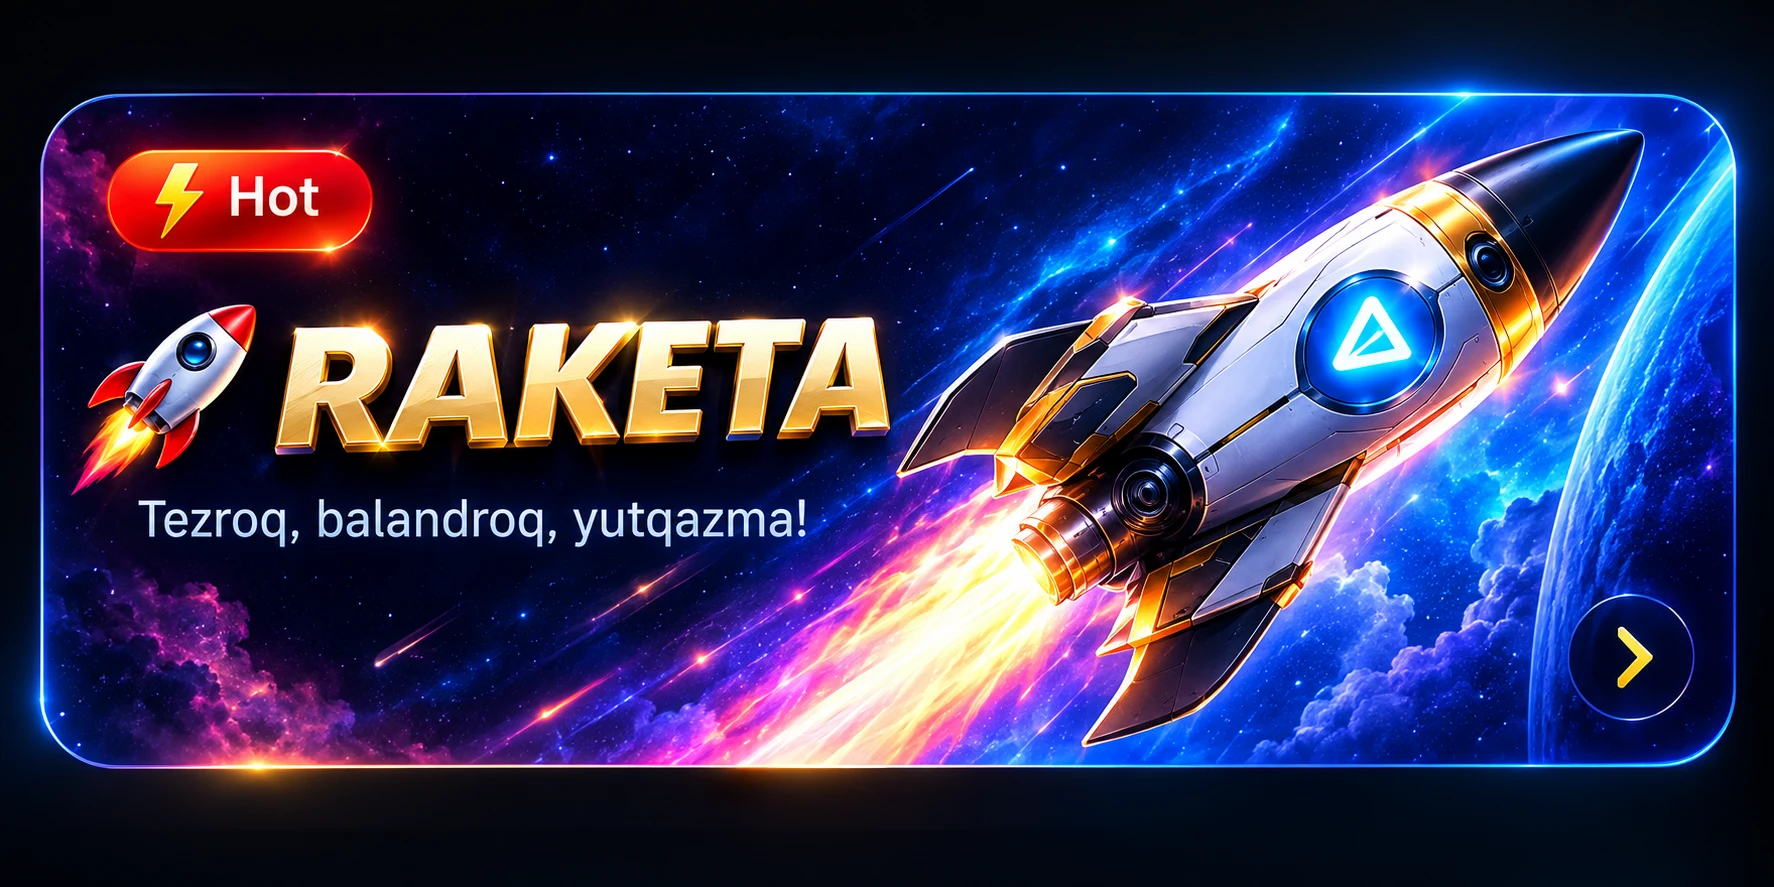
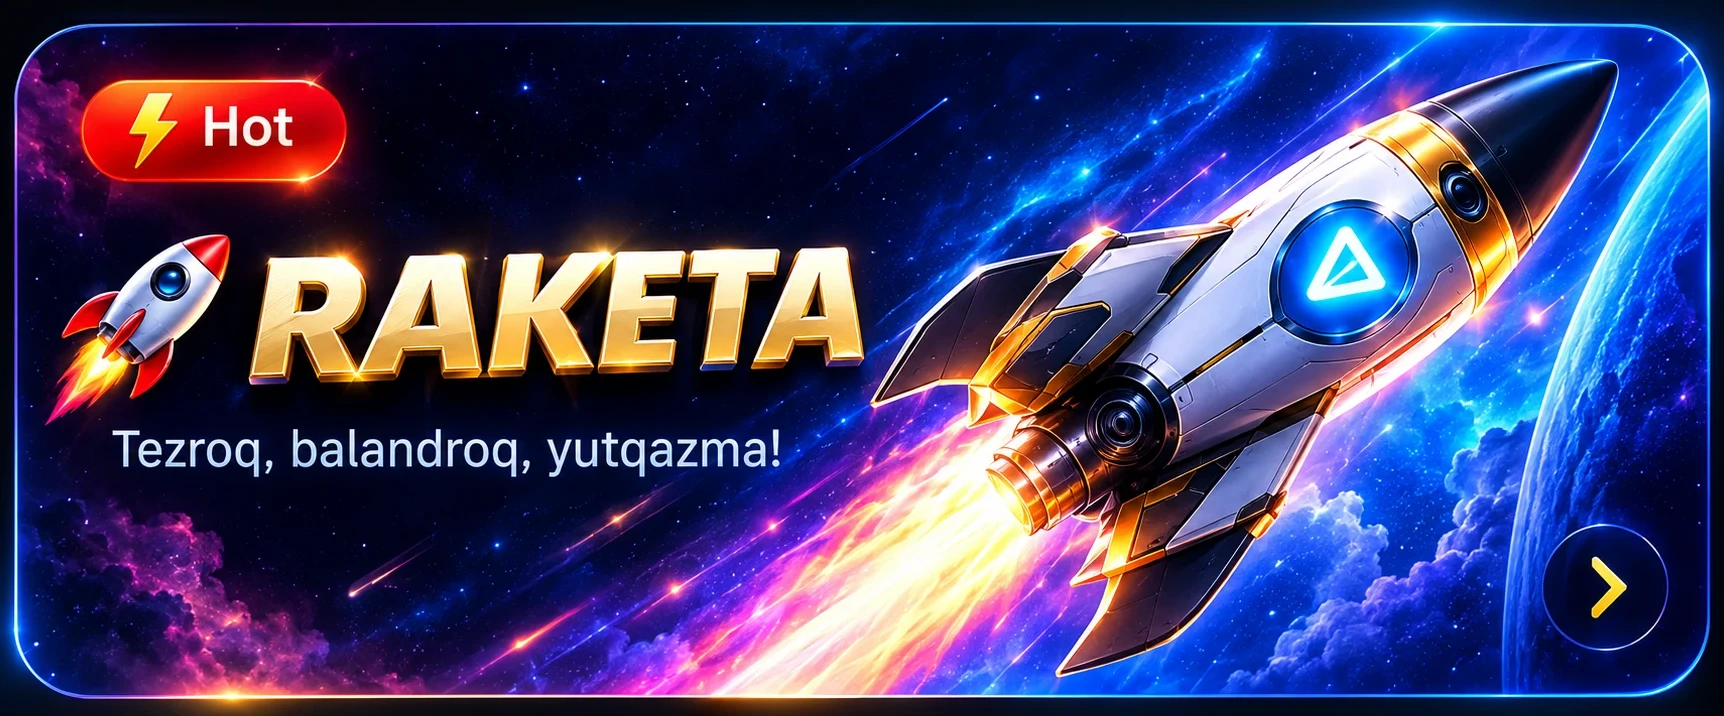
Add files via upload

diff --git a/public/index.html b/public/index.html
@@ -543,7 +543,7 @@
   /* ---- RAKETA kartasi — yangi banner dizayn ---- */
   .game-card.crash{
     padding:0; background:#120B24; overflow:hidden;
-    min-height:0; height:auto; aspect-ratio:1774/887;
+    min-height:0; height:auto; aspect-ratio:1724/716;
   }
   .game-card.crash .gc-banner-img{
     position:absolute; inset:0; width:100%; height:100%;
@@ -721,7 +721,7 @@
   /* ---- Battle PvP karta — yangi banner dizayn ---- */
   .game-card.pvp{
     padding:0; background:#1F1706; overflow:hidden;
-    min-height:0; height:auto; aspect-ratio:1774/887;
+    min-height:0; height:auto; aspect-ratio:1759/531;
     flex-direction:row; align-items:center; justify-content:space-between;
   }
   .game-card.pvp .gc-banner-img{
